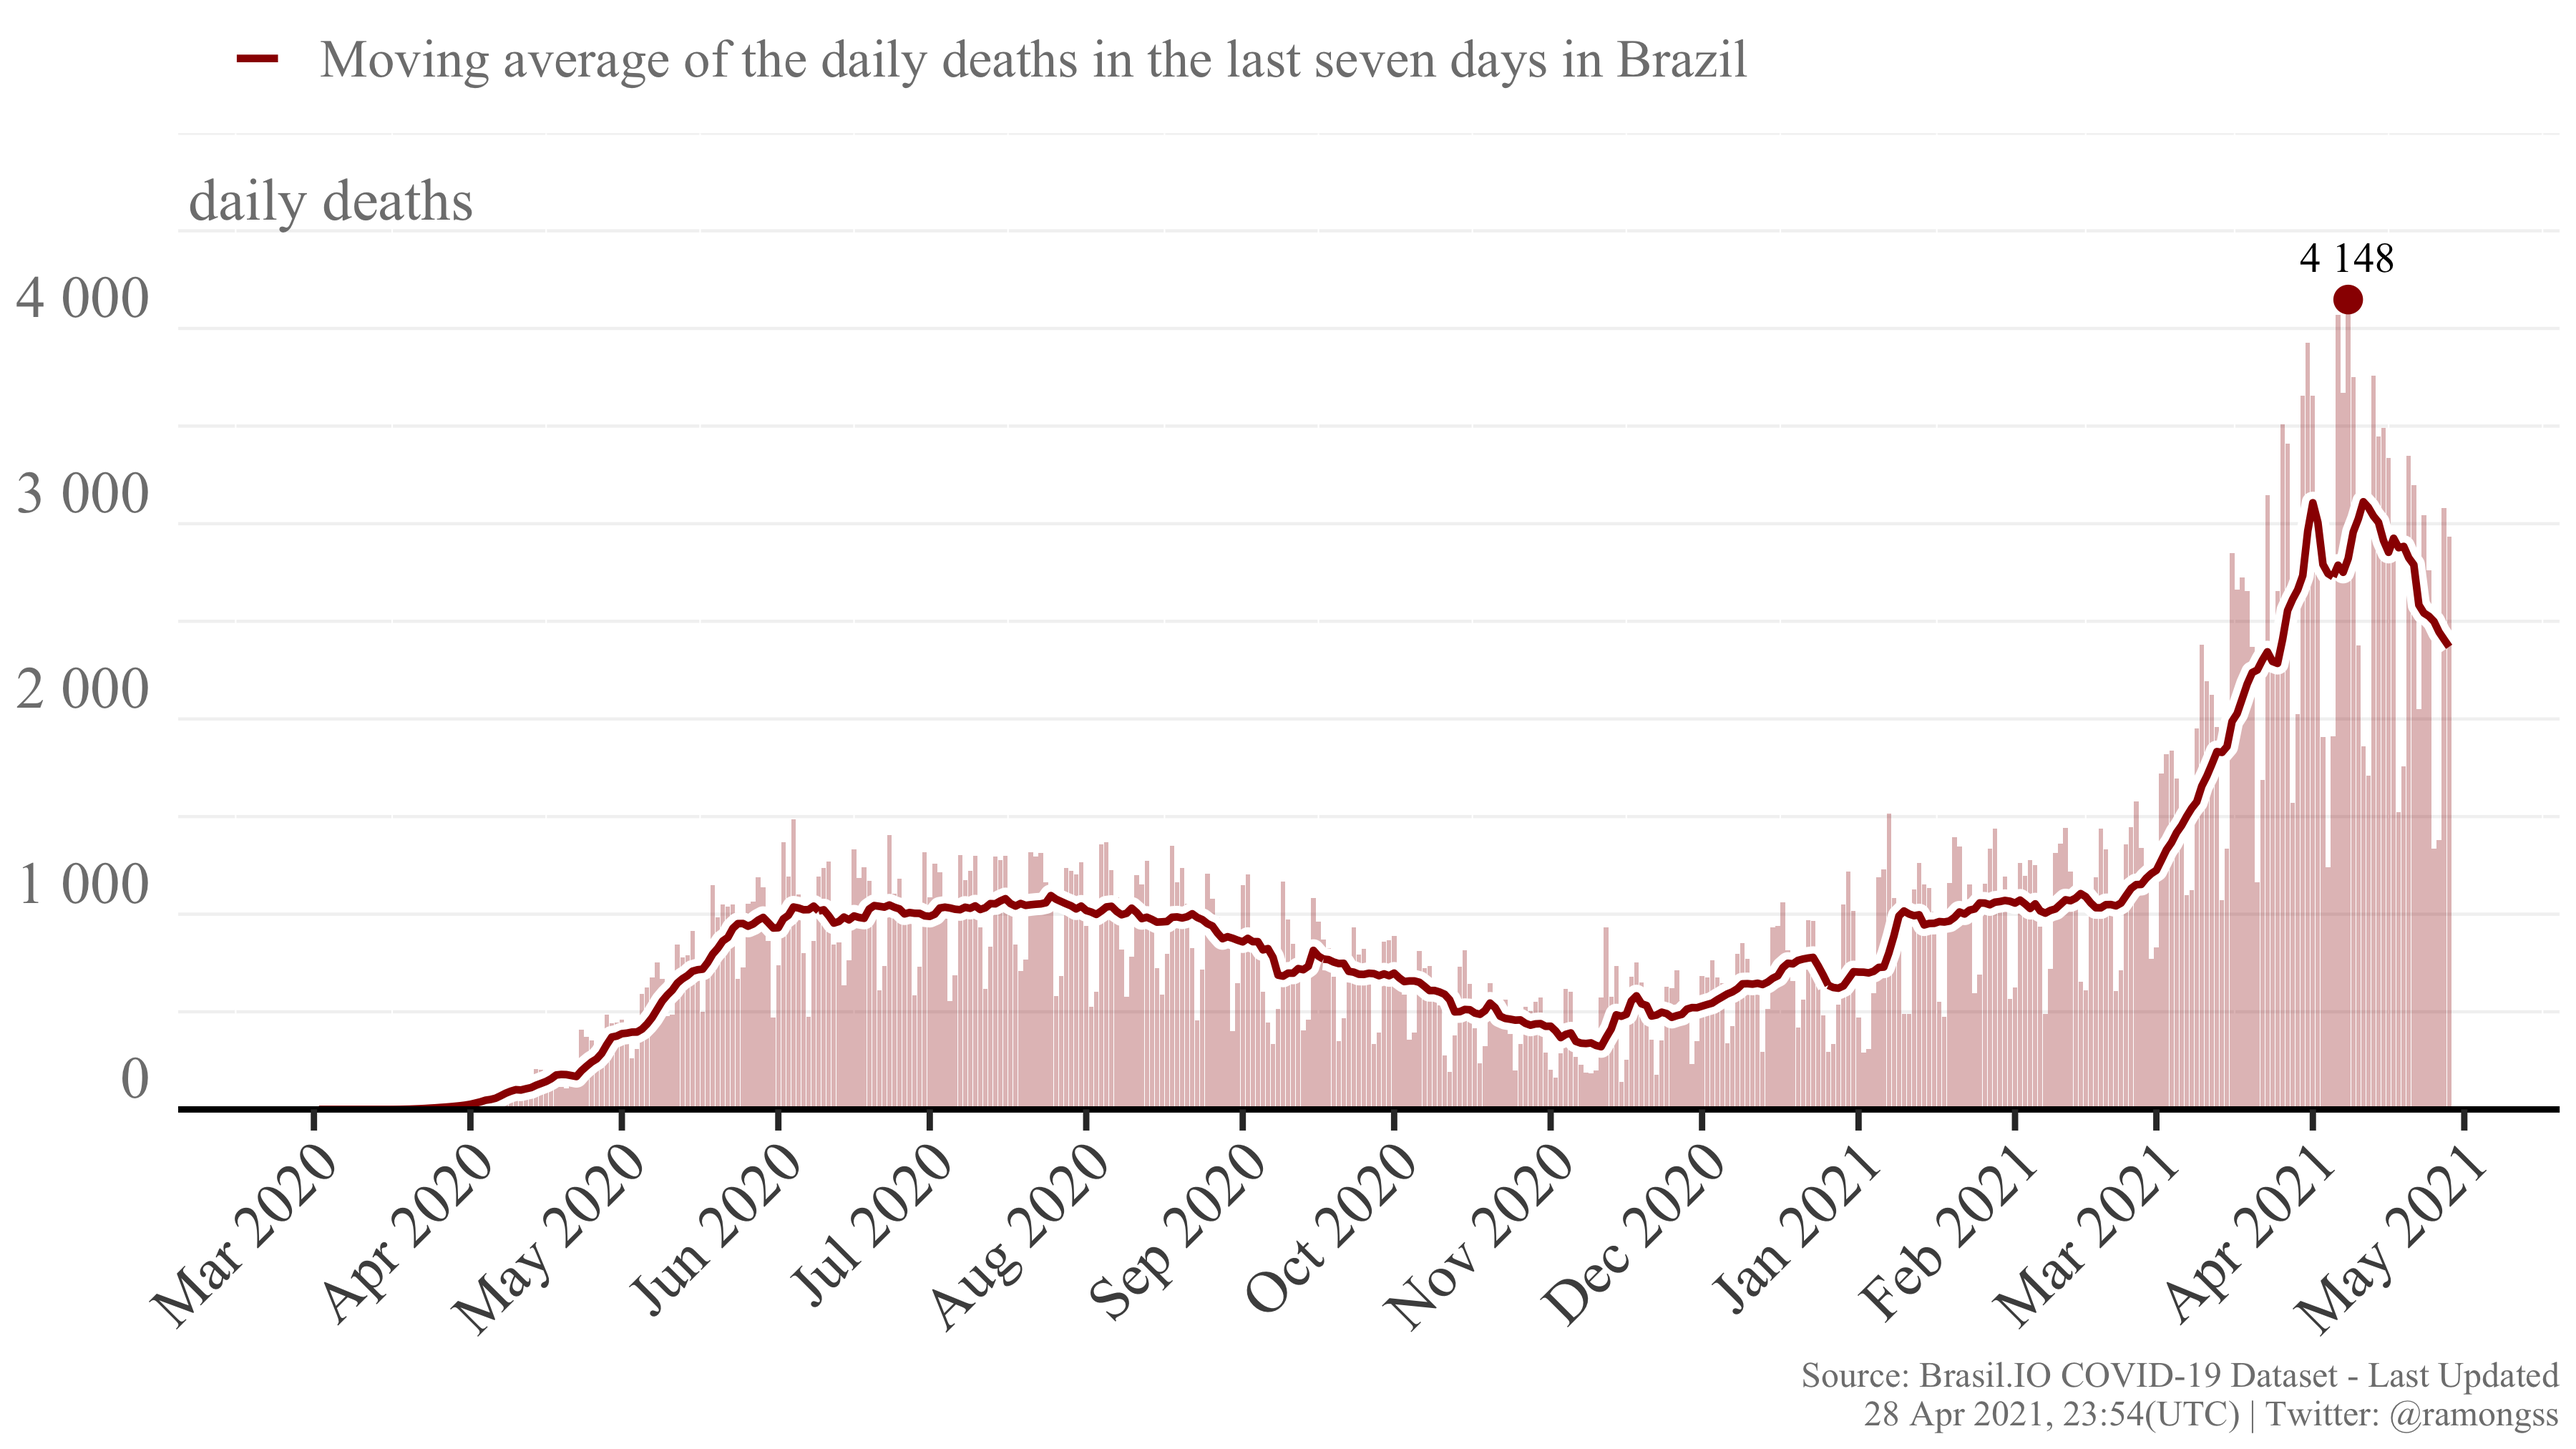
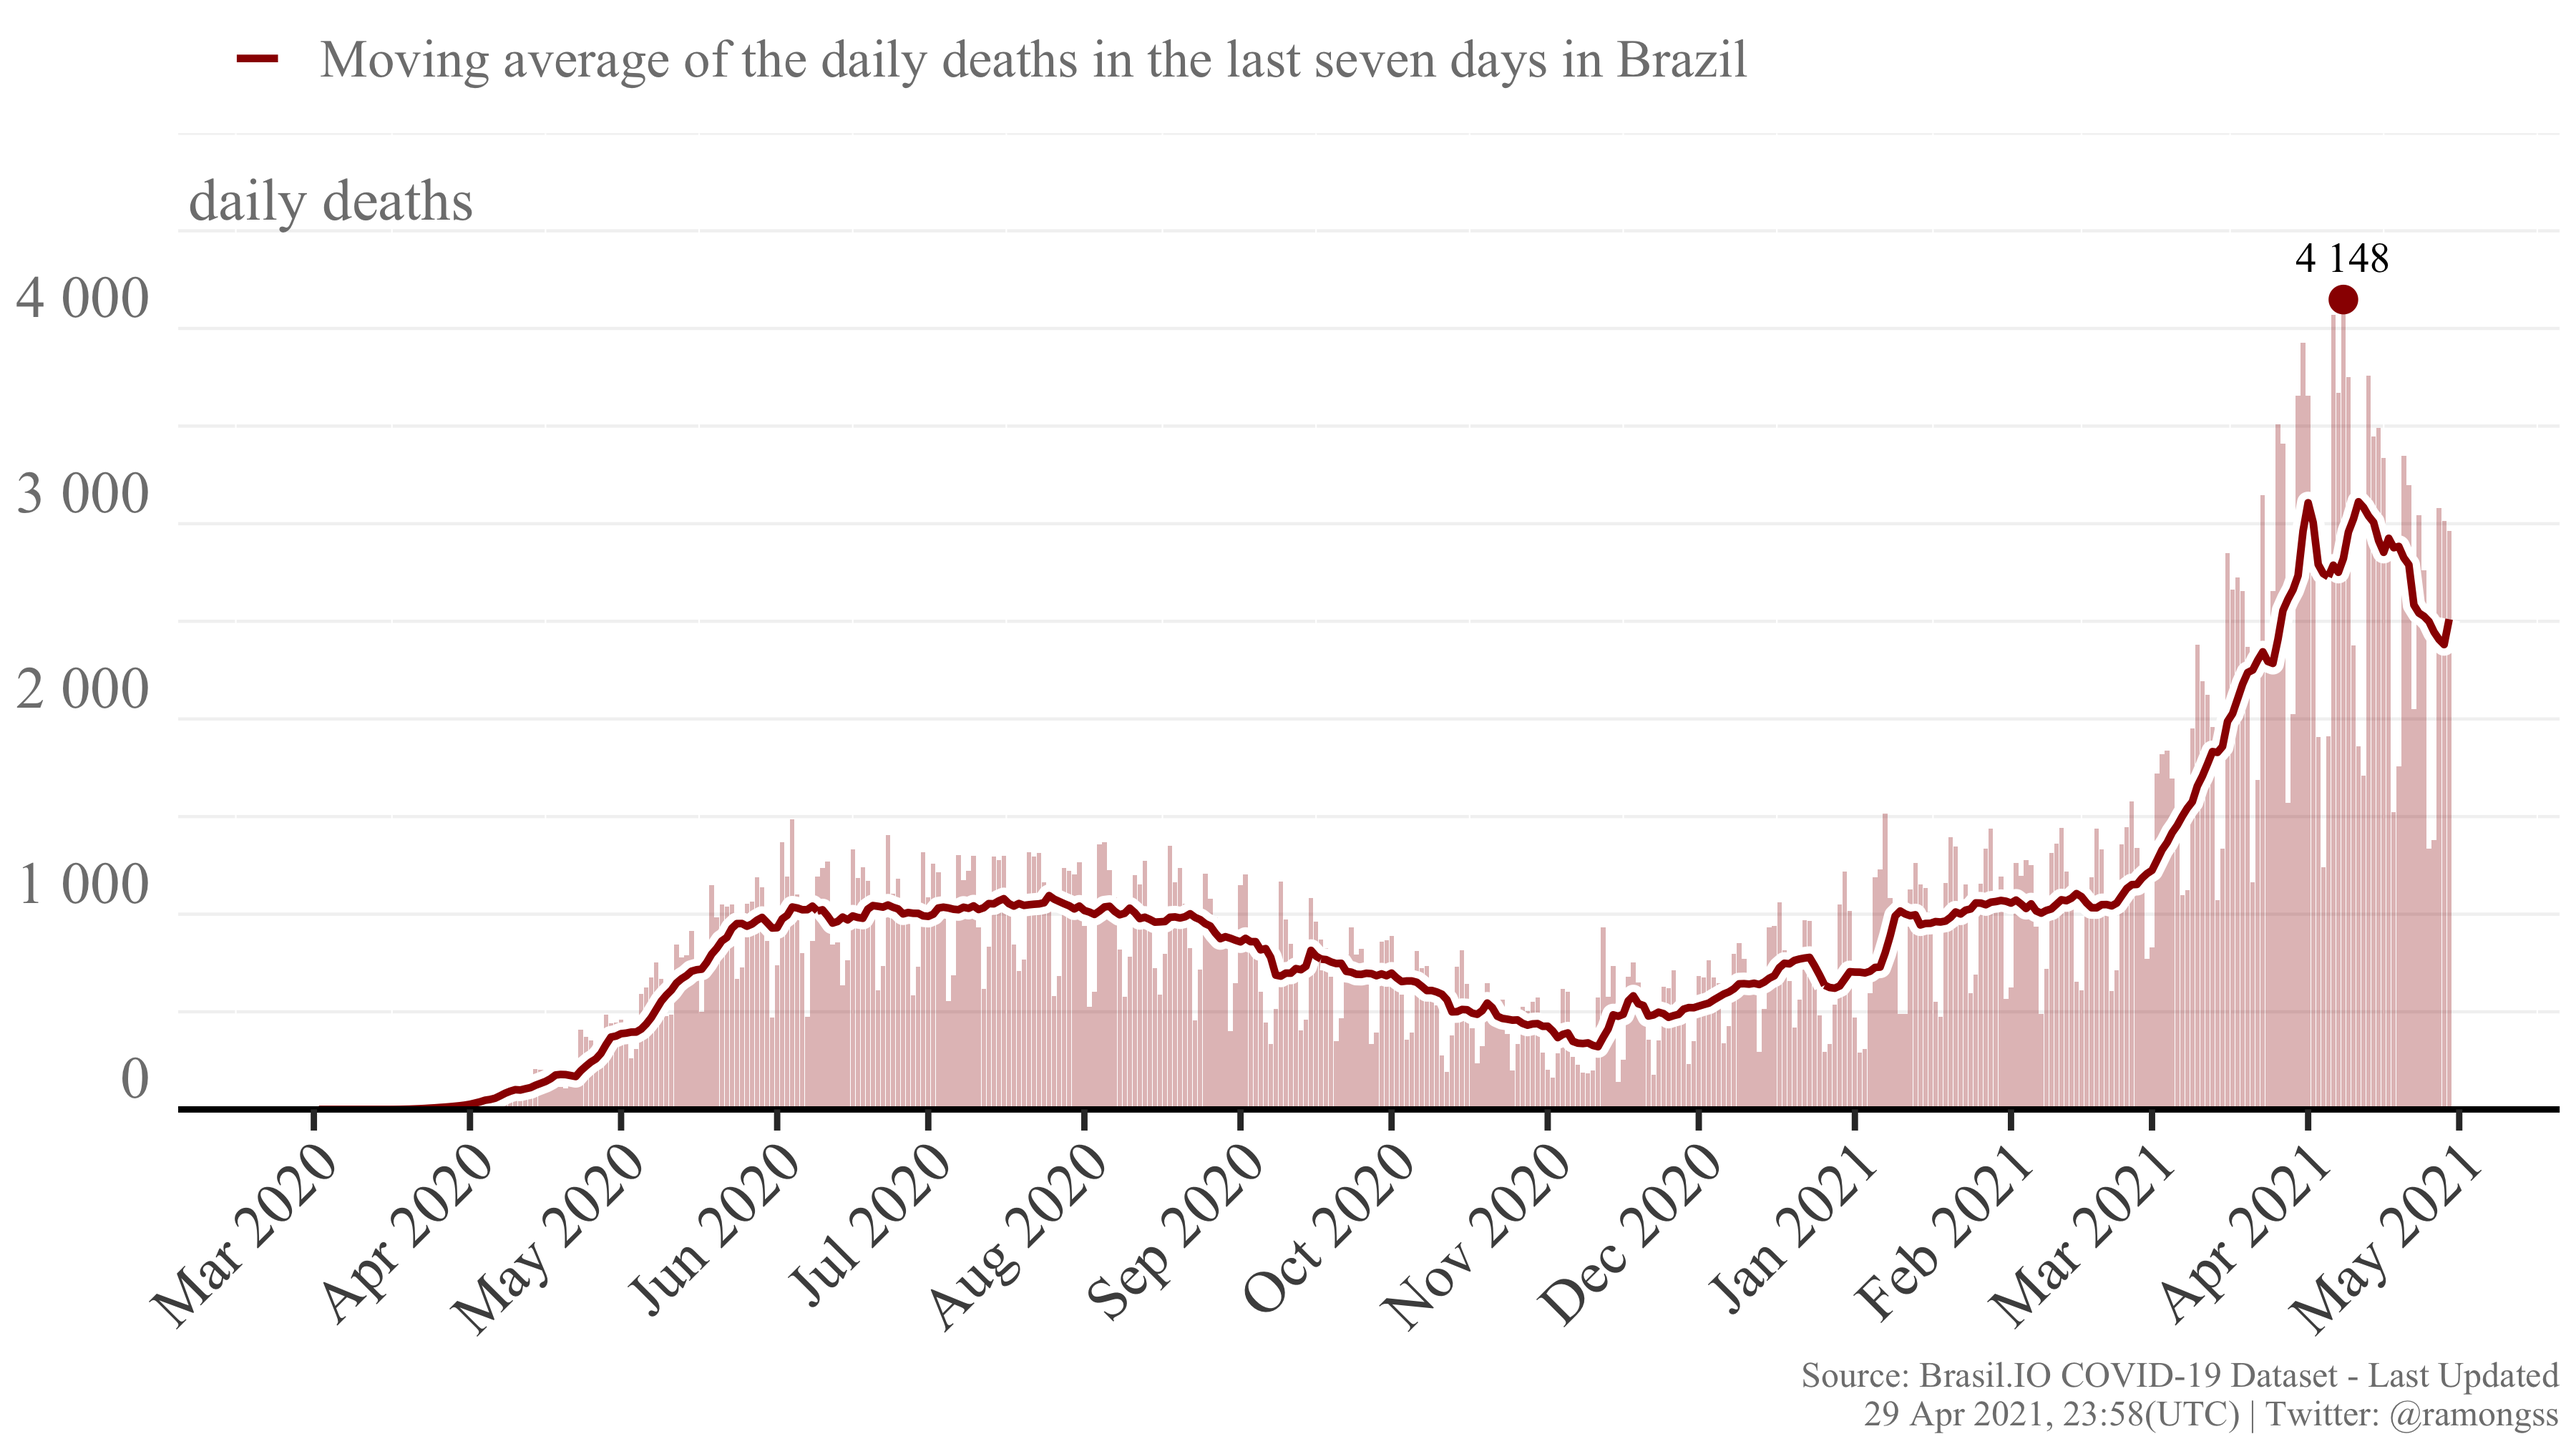
Re-build README.Rmd

diff --git a/README.md b/README.md
@@ -27,8 +27,8 @@ download_brasilio_table <- function(dataset = "covid19", table_name){
 
 ## COVID-19 Confirmed cases
 
-Currently, Brazil has a total of **14,531,631** confirmed cases at **28
-Apr, 2021**, with **74,430** new confirmed cases. The daily maximum
+Currently, Brazil has a total of **14,600,113** confirmed cases at **29
+Apr, 2021**, with **65,631** new confirmed cases. The daily maximum
 incidence was **98,261** confirmed cases at **25 Mar, 2021**. Here
 follows the Figure showing the confirmed case incidence as the bars, and
 the line as the moving average of the last 7 days.
@@ -37,8 +37,8 @@ the line as the moving average of the last 7 days.
 
 ## COVID-19 Deaths
 
-Currently, Brazil has a total of **398,556** deaths at **28 Apr, 2021**,
-with **2,933** new deaths. The daily maximum deaths incidence was
+Currently, Brazil has a total of **401,599** deaths at **29 Apr, 2021**,
+with **2,962** new deaths. The daily maximum deaths incidence was
 **4,148** deaths at **08 Apr, 2021**. Here follows the Figure showing
 the deaths incidence as the bars, and the line as the moving average of
 the last 7 days.
@@ -49,4 +49,4 @@ the last 7 days.
 
 This page is daily updated automatically using Github Actions.
 
-*Last update: 28 Apr 2021, 23:54 (UTC).*
+*Last update: 29 Apr 2021, 23:58 (UTC).*
